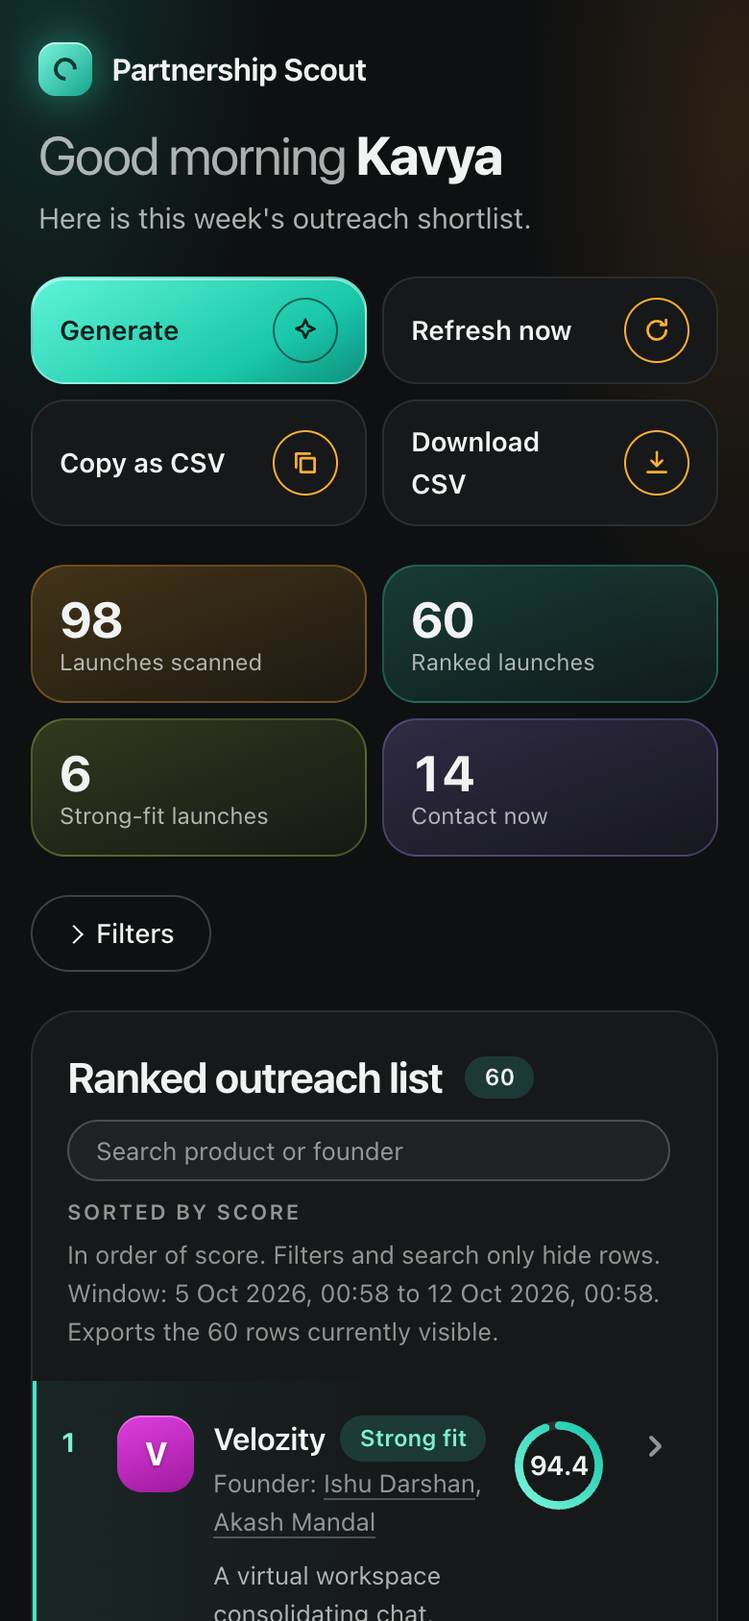
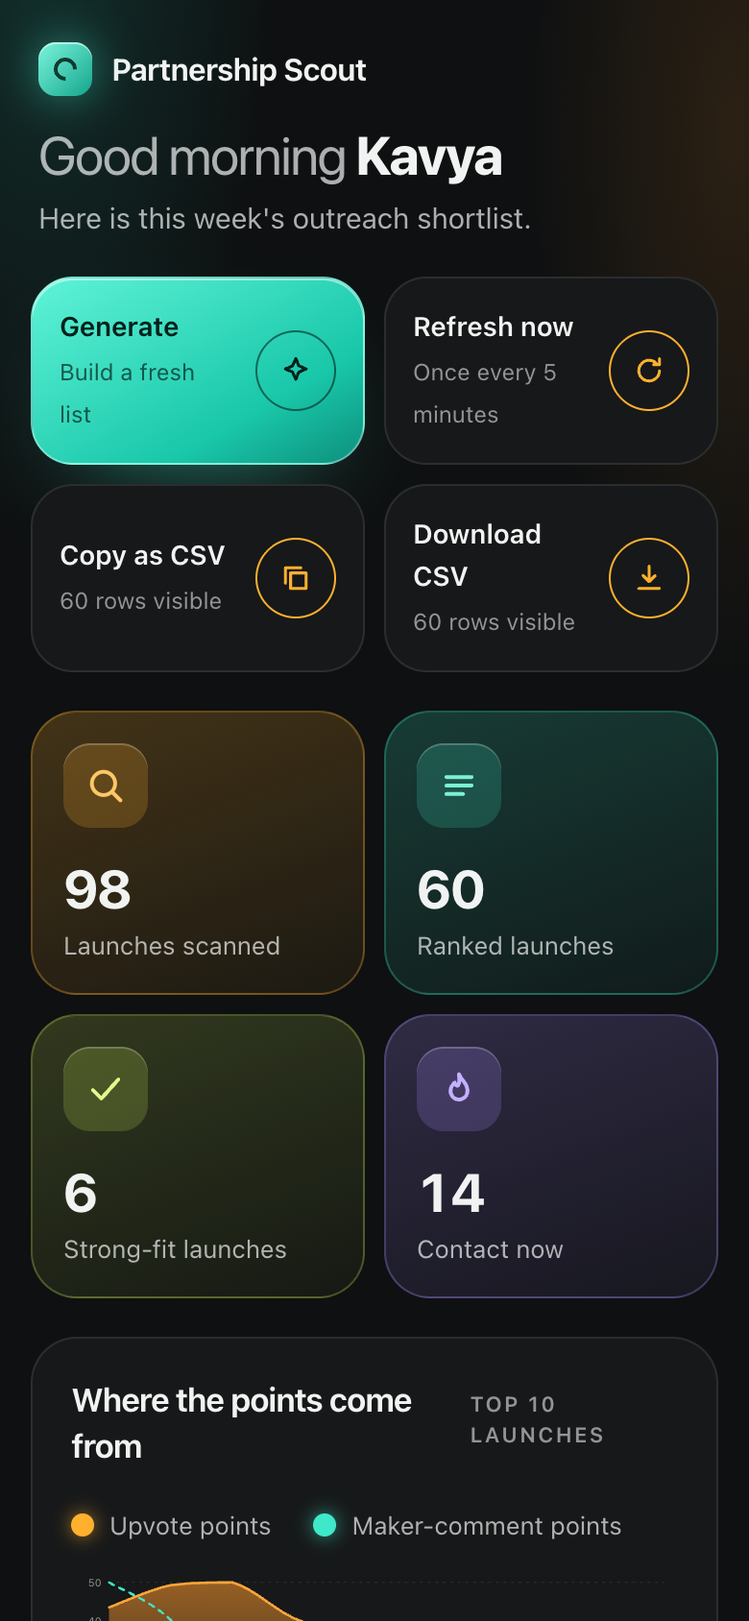
Restore charts-above-list layout; restyle ranked rows as cards with stat tiles

diff --git a/app/page.tsx b/app/page.tsx
@@ -65,22 +65,6 @@ function Tile({ name }: { name: string }) {
   return <span className="tile" aria-hidden="true" style={{ "--h": hues[h % hues.length] } as React.CSSProperties}>{letter}</span>;
 }
 
-/** Score ring: the arc is the score out of 100. */
-function Ring({ value, provisional, animate }: { value: number; provisional: boolean; animate: boolean }) {
-  const r = 24;
-  const c = 2 * Math.PI * r;
-  const pct = Math.max(0, Math.min(100, value));
-  return (
-    <div className={`ring${provisional ? " prov" : ""}`}>
-      <svg viewBox="0 0 60 60" aria-hidden="true">
-        <circle className="trk" cx="30" cy="30" r={r} />
-        <circle className={`prg${animate ? " go" : ""}`} cx="30" cy="30" r={r} strokeDasharray={`${(c * pct) / 100} ${c}`} transform="rotate(-90 30 30)" />
-      </svg>
-      <span className="score"><Score value={value} animate={animate} /></span>
-    </div>
-  );
-}
-
 /** Search by product name, one-liner or visible founder names (case-insensitive). Only hides rows. */
 function matchesQuery(r: ScoredLaunch, query: string): boolean {
   const q = query.trim().toLowerCase();
@@ -213,14 +197,14 @@ function Row({ r, rank, showNew, aiShown, index, onCopied, contacted, onContacte
             {unverified && <span className="pill p-unverified">Unverified quote</span>}
           </>
         ) : <span className="noangle">No angle for this launch</span>}
-        <p className="meta-line">
-          <span>{r.votesHidden ? <b>votes hidden</b> : <><b>{r.votesCount}</b> upvotes</>}</span>
-          <span>{r.makerComments === null ? <>maker comments <b title="Maker comments not counted">not counted</b></> : <><b>{r.makerComments}</b> maker comments</>}{r.makerCommentsStale && <em className="stale" title="Saved copy older than 6 hours; it will be refreshed on a later run"> (CACHED)</em>}</span>
-          <span><b>{r.daysSinceLaunch}</b> days since launch</span>
-        </p>
       </div>
       <div className="c-score">
-        {r.votesHidden ? <div className="hidden">votes hidden</div> : <Ring value={r.score} provisional={r.provisional} animate={index !== undefined && index < 10} />}
+        <div className={`mstats${r.provisional ? " prov" : ""}`}>
+          <div className="ms ms-score"><b>{r.votesHidden ? "–" : <Score value={r.score} animate={index !== undefined && index < 10} />}</b><span>{r.provisional ? "Score · provisional" : "Score"}</span></div>
+          <div className="ms"><b>{r.votesHidden ? "hidden" : r.votesCount}</b><span>Upvotes</span></div>
+          <div className="ms" title={r.makerCommentsStale ? "Saved copy older than 6 hours; it will be refreshed on a later run" : undefined}><b>{r.makerComments === null ? "–" : r.makerComments}</b><span>{r.makerComments === null ? "Maker comments · not counted" : r.makerCommentsStale ? "Maker comments · cached" : "Maker comments"}</span></div>
+          <div className="ms"><b>{r.daysSinceLaunch}</b><span>Days since launch</span></div>
+        </div>
       </div>
       <button className="c-toggle" aria-expanded={open} aria-controls={detailId} aria-label={`${open ? "Hide" : "Show"} details for ${r.name}`} onClick={() => setOpen(!open)}>
         <svg viewBox="0 0 16 16" aria-hidden="true"><path d="M6 3.5 10.5 8 6 12.5" /></svg>
@@ -405,7 +389,6 @@ export default function Page() {
   const [hideContacted, setHideContacted] = useState(false);
   const [query, setQuery] = useState("");
   const [recency, setRecency] = useState<"any" | "hot" | "week" | "closing">("any"); // filter by how recently a launch happened (only hides rows)
-  const [insightsOpen, setInsightsOpen] = useState(false);
   useEffect(() => {
     try {
       const v = JSON.parse(localStorage.getItem(CONTACTED_KEY) ?? "{}");
@@ -586,7 +569,6 @@ export default function Page() {
       Hide contacted{contactedCount ? ` (${contactedCount})` : ""}
     </label>
   );
-  const activeFilters = cats.length + (fitOnly ? 1 : 0) + (hideContacted ? 1 : 0) + (recency !== "any" ? 1 : 0) + (query.trim() ? 1 : 0);
   const recencyPicker = (
     <div className="recency" role="group" aria-label="Launched">
       <p className="micro nav-h">Launched</p>
@@ -675,9 +657,8 @@ export default function Page() {
             {data && (
               <nav aria-label="Sections and filters">
                 <p className="micro nav-h">Overview</p>
-                <a className="nav on" href="#overview">Overview</a>
+                <a className="nav on" href="#overview">Dashboard</a>
                 <a className="nav" href="#list">Ranked list <span className="n">{data.ranked.length}</span></a>
-                <a className="nav" href="#insights" onClick={() => setInsightsOpen(true)}>Insights</a>
                 {data.tooEarly.length > 0 && <a className="nav" href="#early">Too early <span className="n">{data.tooEarly.length}</span></a>}
                 {data.moreLaunches.length > 0 && <a className="nav" href="#more" onClick={() => setMoreOpen(true)}>More launches <span className="n">{data.moreLaunches.length}</span></a>}
                 <p className="micro nav-h">Categories</p>
@@ -727,58 +708,7 @@ export default function Page() {
                   <div className="kpi k-purple"><span className="ico ico-purple" aria-hidden="true"><svg viewBox="0 0 20 20"><path d="M10 3c1 3 4 4 4 8a4 4 0 0 1-8 0c0-2 1-3 2-4 .3 1 1 1.500 1.500 1.500C10.500 7 10 5 10 3z" /></svg></span><div className="kn">{hotRows.length}</div><div className="kl">Contact now</div></div>
                 </section>
 
-                <details className="m-filters mfilters">
-                  <summary>Filters{activeFilters ? ` (${activeFilters} on)` : ""}</summary>
-                  <div className="mf-body">
-                  <div className="seg" role="group" aria-label="Categories, pick one or more">
-                    <button className={`chip ${allCats ? "on" : ""}`} aria-pressed={allCats} onClick={() => setCats([])}>All <span className="n">{data.ranked.length}</span></button>
-                    {availableCats.map((c) => (
-                      <button key={c.id} className={`chip ${cats.includes(c.id) ? "on" : ""}`} aria-pressed={cats.includes(c.id)} onClick={() => toggleCat(c.id)}>{c.label} <span className="n">{catCount(c.id)}</span></button>
-                    ))}
-                  </div>
-                  {fitSwitch}
-                  {contactedSwitch}
-                  {recencyPicker}
-                  <details className="extras-box"><summary>Add optional categories{extras.length ? ` (${extras.length} on)` : ""}</summary>{extraPicker}</details>
-                  {notice && <p className="notice" role="status">{notice}</p>}
-                  </div>
-                </details>
-
-                <section className="panel flat" id="list">
-                  <div className="listhead">
-                    <h2>Ranked outreach list <span className="count">{ranked.length}</span></h2>
-                    <div className="right">
-                      <input type="search" className="search" placeholder="Search product or founder" aria-label="Search the list by product or founder" value={query} onChange={(e) => setQuery(e.target.value)} />
-                      <span className="micro">Sorted by score</span>
-                    </div>
-                  </div>
-                  <p className="hint">In order of score. Filters and search only hide rows. Window: {fmtTime(data.window.from)} to {fmtTime(data.window.to)}. Exports the {rowsLabel(exportCount)} currently visible.</p>
-                  {ranked.length === 0 && <div className="empty">No launches match. Widen the filters{data.counted.of === 0 ? `, or no launches were found between ${fmtTime(data.window.from)} and ${fmtTime(data.window.to)}` : ""}.</div>}
-                  {ranked.length > 0 && (
-                    <div className="table">
-                      <div className="thead" aria-hidden="true"><span>#</span><span>Product</span><span>Suggested outreach angle</span><span>Score</span><span /></div>
-                      {ranked.map((r, i) => <Row key={r.id} r={r} rank={data.ranked.indexOf(r) + 1 || i + 1} showNew={isNew(r)} aiShown index={i} onCopied={flash} contacted={Boolean(contacted[r.id])} onContacted={() => toggleContacted(r.id)} />)}
-                    </div>
-                  )}
-                </section>
-
-                {data.tooEarly.length > 0 && (
-                  <section className="panel flat" id="early">
-                    <div className="listhead"><h2>Too early to rank <span className="count">{tooEarly.length}</span></h2></div>
-                    <p className="hint">Launched today; Product Hunt is still hiding the votes. They have no score yet and are not ranked.</p>
-                    <div className="table">{tooEarly.map((r) => <Row key={r.id} r={r} showNew={isNew(r)} aiShown={r.ai.angle !== ""} onCopied={flash} contacted={Boolean(contacted[r.id])} onContacted={() => toggleContacted(r.id)} />)}</div>
-                  </section>
-                )}
-
-                {data.moreLaunches.length > 0 && (
-                  <details className="panel flat more" id="more" open={moreOpen} onToggle={(e) => setMoreOpen(e.currentTarget.open)}>
-                    <summary>More launches ({more.length}), in score order, without an angle</summary>
-                    <div className="table">{more.map((r) => <Row key={r.id} r={r} rank={data.ranked.length + data.moreLaunches.indexOf(r) + 1} showNew={isNew(r)} aiShown={false} onCopied={flash} contacted={Boolean(contacted[r.id])} onContacted={() => toggleContacted(r.id)} />)}</div>
-                  </details>
-                )}
-                <details className="panel flat insights" id="insights" open={insightsOpen} onToggle={(e) => setInsightsOpen(e.currentTarget.open)}>
-                  <summary>Insights: where the points come from, who to contact first, category mix</summary>
-                  <section className="bento" aria-label="Insights">
+                  <section className="bento" id="insights" aria-label="Insights">
                   <div className="card flat c-chart">
                     <div className="card-h"><h3>Where the points come from</h3><span className="micro">Top {Math.min(10, data.ranked.length)} launches</span></div>
                     <AreaChart rows={data.ranked.slice(0, 10)} />
@@ -826,7 +756,54 @@ export default function Page() {
                     </div>
                   )}
                 </section>
-                </details>
+
+                <div className="m-filters">
+                  <div className="seg" role="group" aria-label="Categories, pick one or more">
+                    <button className={`chip ${allCats ? "on" : ""}`} aria-pressed={allCats} onClick={() => setCats([])}>All <span className="n">{data.ranked.length}</span></button>
+                    {availableCats.map((c) => (
+                      <button key={c.id} className={`chip ${cats.includes(c.id) ? "on" : ""}`} aria-pressed={cats.includes(c.id)} onClick={() => toggleCat(c.id)}>{c.label} <span className="n">{catCount(c.id)}</span></button>
+                    ))}
+                  </div>
+                  {fitSwitch}
+                  {contactedSwitch}
+                  {recencyPicker}
+                  <details className="extras-box"><summary>Add optional categories{extras.length ? ` (${extras.length} on)` : ""}</summary>{extraPicker}</details>
+                  {notice && <p className="notice" role="status">{notice}</p>}
+                </div>
+
+                <section className="panel flat" id="list">
+                  <div className="listhead">
+                    <h2>Ranked outreach list <span className="count">{ranked.length}</span></h2>
+                    <div className="right">
+                      <input type="search" className="search" placeholder="Search product or founder" aria-label="Search the list by product or founder" value={query} onChange={(e) => setQuery(e.target.value)} />
+                      <span className="micro">Sorted by score</span>
+                    </div>
+                  </div>
+                  <p className="hint">In order of score. Filters and search only hide rows. Window: {fmtTime(data.window.from)} to {fmtTime(data.window.to)}. Exports the {rowsLabel(exportCount)} currently visible.</p>
+                  {ranked.length === 0 && <div className="empty">No launches match. Widen the filters{data.counted.of === 0 ? `, or no launches were found between ${fmtTime(data.window.from)} and ${fmtTime(data.window.to)}` : ""}.</div>}
+                  {ranked.length > 0 && (
+                    <div className="table">
+                      <div className="thead" aria-hidden="true"><span>#</span><span>Product</span><span>Suggested outreach angle</span><span>Score and activity</span><span /></div>
+                      {ranked.map((r, i) => <Row key={r.id} r={r} rank={data.ranked.indexOf(r) + 1 || i + 1} showNew={isNew(r)} aiShown index={i} onCopied={flash} contacted={Boolean(contacted[r.id])} onContacted={() => toggleContacted(r.id)} />)}
+                    </div>
+                  )}
+                </section>
+
+                {data.tooEarly.length > 0 && (
+                  <section className="panel flat" id="early">
+                    <div className="listhead"><h2>Too early to rank <span className="count">{tooEarly.length}</span></h2></div>
+                    <p className="hint">Launched today; Product Hunt is still hiding the votes. They have no score yet and are not ranked.</p>
+                    <div className="table">{tooEarly.map((r) => <Row key={r.id} r={r} showNew={isNew(r)} aiShown={r.ai.angle !== ""} onCopied={flash} contacted={Boolean(contacted[r.id])} onContacted={() => toggleContacted(r.id)} />)}</div>
+                  </section>
+                )}
+
+                {data.moreLaunches.length > 0 && (
+                  <details className="panel flat more" id="more" open={moreOpen} onToggle={(e) => setMoreOpen(e.currentTarget.open)}>
+                    <summary>More launches ({more.length}), in score order, without an angle</summary>
+                    <div className="table">{more.map((r) => <Row key={r.id} r={r} rank={data.ranked.length + data.moreLaunches.indexOf(r) + 1} showNew={isNew(r)} aiShown={false} onCopied={flash} contacted={Boolean(contacted[r.id])} onContacted={() => toggleContacted(r.id)} />)}</div>
+                  </details>
+                )}
+
               </>
             )}
 

diff --git a/app/globals.css b/app/globals.css
@@ -273,15 +273,14 @@ button.small { height: 30px; padding: 0 12px; font-size: 13px; }
 .listhead .right { display: flex; flex-wrap: wrap; align-items: center; gap: 8px 16px; }
 h2 { font-size: 22px; line-height: 28px; display: flex; align-items: center; gap: 12px; }
 h2 .count { font-size: 12px; font-weight: 600; letter-spacing: 0; color: var(--t1); background: rgba(62, 232, 200, 0.16); border-radius: 999px; padding: 0 10px; line-height: 22px; font-variant-numeric: tabular-nums; }
-.table { margin-top: 16px; }
-.thead, .lrow { display: grid; grid-template-columns: 32px minmax(0, 1fr) minmax(0, 1.25fr) 64px 28px; column-gap: 32px; align-items: start; grid-template-areas: "rank prod angle score tog" ". det det det det"; }
+.table { margin-top: 16px; padding: 0 16px 16px; }
+.thead, .lrow { display: grid; grid-template-columns: 32px minmax(0, 1fr) minmax(0, 1.1fr) 224px 28px; column-gap: 28px; align-items: start; grid-template-areas: "rank prod angle score tog" ". det det det det"; }
 .thead { position: sticky; top: 0; z-index: 4; padding: 11px 28px; grid-template-areas: none; font-size: 11px; line-height: 16px; text-transform: uppercase; letter-spacing: 0.1em; color: var(--t3); font-weight: 600; background: rgba(22, 24, 25, 0.9); -webkit-backdrop-filter: blur(16px); backdrop-filter: blur(16px); border-top: 1px solid var(--line); border-bottom: 1px solid var(--line); }
-.lrow { padding: 28px 28px; position: relative; border-top: 1px solid var(--line); transition: background 200ms var(--spring); }
-.thead + .lrow { border-top: 0; }
-.lrow:hover { background: rgba(255, 255, 255, 0.025); }
+.lrow { padding: 24px 22px; position: relative; margin-top: 12px; border-radius: 24px; background: rgba(255, 255, 255, 0.03); border: 1px solid var(--line); transition: background 200ms var(--spring), border-color 200ms var(--spring); }
+.lrow:hover { background: rgba(255, 255, 255, 0.05); border-color: var(--line-hi); }
 .lrow.enter { animation: rise 420ms var(--spring) both; animation-delay: calc(var(--i) * 25ms); }
 @keyframes rise { from { opacity: 0; transform: translateY(8px); } }
-.lrow.top1 { background: linear-gradient(90deg, rgba(62, 232, 200, 0.07), transparent 55%); box-shadow: inset 2px 0 0 var(--mint); }
+.lrow.top1 { background: linear-gradient(90deg, rgba(62, 232, 200, 0.07), transparent 55%); border-color: rgba(62, 232, 200, 0.35); }
 .c-rank { grid-area: rank; padding-top: 3px; }
 .rank { color: var(--t3); font-size: 14px; font-variant-numeric: tabular-nums; font-weight: 500; }
 .lrow.top .rank { color: var(--t1); font-weight: 700; }
@@ -298,21 +297,16 @@ h2 .count { font-size: 12px; font-weight: 600; letter-spacing: 0; color: var(--t
 .desc { color: var(--t2); font-size: 13px; line-height: 20px; margin: 8px 0 0; display: -webkit-box; -webkit-line-clamp: 4; -webkit-box-orient: vertical; overflow: hidden; }
 .c-angle { grid-area: angle; min-width: 0; }
 .angle-prev { margin: 0; color: rgba(241, 243, 242, 0.94); font-size: 14px; line-height: 23px; }
-.meta-line { display: flex; flex-wrap: wrap; gap: 2px 18px; margin: 12px 0 0; font-size: 12.5px; line-height: 18px; color: var(--t3); }
-.meta-line b { color: var(--t2); font-weight: 600; font-variant-numeric: tabular-nums; }
-.meta-line .stale { color: var(--amber-t); font-style: normal; }
 .c-angle .pill { margin-top: 8px; }
 .noangle { color: var(--t3); font-size: 13px; }
-.c-score { grid-area: score; display: flex; justify-content: flex-end; }
-.ring { position: relative; width: 64px; height: 64px; flex: none; }
-.ring svg { width: 100%; height: 100%; display: block; overflow: visible; }
-.ring .trk { fill: none; stroke: rgba(255, 255, 255, 0.1); stroke-width: 5; }
-.ring .prg { fill: none; stroke: url(#ringgrad); stroke-width: 5; stroke-linecap: round; }
-.ring .prg.go { animation: ringin 900ms var(--spring) both; }
-@keyframes ringin { from { stroke-dasharray: 0 160; } }
-.ring.prov .trk { stroke-dasharray: 2 4; stroke: rgba(255, 255, 255, 0.32); stroke-width: 4; }
-.ring.prov .prg { opacity: 0.55; }
-.ring .score { position: absolute; inset: 0; display: flex; align-items: center; justify-content: center; font-size: 17px; font-weight: 650; letter-spacing: -0.03em; font-variant-numeric: tabular-nums; }
+.c-score { grid-area: score; }
+.mstats { display: grid; grid-template-columns: 1fr 1fr; gap: 8px; }
+.ms { background: rgba(255, 255, 255, 0.05); border-radius: 16px; padding: 10px 12px; display: flex; flex-direction: column; justify-content: center; min-width: 0; }
+.ms b { font-size: 22px; line-height: 26px; font-weight: 750; letter-spacing: -0.03em; font-variant-numeric: tabular-nums; color: var(--t1); overflow-wrap: anywhere; }
+.ms span { font-size: 10.5px; line-height: 14px; text-transform: uppercase; letter-spacing: 0.07em; color: var(--t3); font-weight: 600; }
+.ms-score { background: linear-gradient(160deg, rgba(62, 232, 200, 0.22), rgba(62, 232, 200, 0.07)); box-shadow: inset 0 0 0 1px rgba(62, 232, 200, 0.28); }
+.ms-score b, .ms-score span { color: var(--mint-t); }
+.mstats.prov .ms-score { box-shadow: inset 0 0 0 1px rgba(62, 232, 200, 0.28); border: 1px dashed rgba(255, 255, 255, 0.3); }
 .c-score .hidden { color: var(--t2); font-size: 12px; line-height: 16px; text-align: right; }
 .c-toggle { grid-area: tog; width: 28px; height: 28px; padding: 0; display: inline-flex; align-items: center; justify-content: center; background: transparent; border-color: transparent; color: var(--t3); margin-top: 2px; }
 .c-toggle svg { width: 16px; height: 16px; stroke: currentColor; fill: none; stroke-width: 2; stroke-linecap: round; stroke-linejoin: round; transition: transform 300ms var(--spring); }
@@ -339,8 +333,8 @@ h2 .count { font-size: 12px; font-weight: 600; letter-spacing: 0; color: var(--t
 .how dd { margin: 0; font-variant-numeric: tabular-nums; overflow-wrap: anywhere; }
 .how b { color: var(--t1); }
 .how-note { color: var(--t3); font-size: 12px; line-height: 18px; margin: 8px 0 0; }
-.lrow.competitor .name, .lrow.competitor .angle-prev, .lrow.competitor .angle-full, .lrow.competitor .meta-line b, .lrow.competitor .score { color: var(--t2); }
-.lrow.competitor .ring .prg { stroke: rgba(255, 255, 255, 0.45); filter: none; }
+.lrow.competitor .name, .lrow.competitor .angle-prev, .lrow.competitor .angle-full, .lrow.competitor .ms b { color: var(--t2); }
+.lrow.competitor .ms-score { background: rgba(255, 255, 255, 0.06); box-shadow: none; } .lrow.competitor .ms-score b, .lrow.competitor .ms-score span { color: var(--t2); }
 .lrow.competitor .tile { filter: saturate(0.3) brightness(0.9); }
 
 /* ---- founder and site links ---- */
@@ -351,13 +345,6 @@ h2 .count { font-size: 12px; font-weight: 600; letter-spacing: 0; color: var(--t
 .findc .d-actions { margin-top: 0; }
 .btn-link:hover { background: var(--fill-2); border-color: rgba(255, 255, 255, 0.34); }
 
-/* ---- insights panel (collapsed by default so the list comes first) ---- */
-.insights { padding: 0; }
-.insights > summary { list-style: none; cursor: pointer; display: flex; align-items: center; gap: 10px; padding: 20px 28px; font-size: 16px; font-weight: 600; color: var(--t1); border-radius: 24px; }
-.insights > summary::-webkit-details-marker { display: none; }
-.insights > summary::before { content: ""; width: 7px; height: 7px; border-right: 2px solid currentColor; border-bottom: 2px solid currentColor; transform: rotate(-45deg); transition: transform 300ms var(--spring); flex: none; }
-.insights[open] > summary::before { transform: rotate(45deg); }
-.insights .bento { padding: 0 20px 20px; }
 .seg-wrap { display: flex; flex-wrap: wrap; border-radius: 16px; }
 .recency { margin-top: 4px; }
 .m-filters .recency { width: 100%; }
@@ -435,6 +422,10 @@ button.small.accent:hover:not(:disabled) { background: rgba(255, 176, 46, 0.12);
 
 /* ---- tablet and below ---- */
 @media (max-width: 1199px) {
+  .thead { display: none; }
+  .lrow { grid-template-columns: 24px minmax(0, 1fr) 28px; column-gap: 12px; row-gap: 14px; padding: 20px 16px; grid-template-areas: "rank prod tog" ". angle angle" ". score score" ". det det"; }
+  .mstats { grid-template-columns: repeat(4, minmax(0, 1fr)); }
+  .table { padding: 0 12px 12px; }
   .qas, .kpis { grid-template-columns: repeat(2, minmax(0, 1fr)); }
   .c-chart, .c-hot, .c-scores, .c-cats { grid-column: 1 / -1; }
   .c-top { grid-template-columns: minmax(0, 1fr); }
@@ -443,16 +434,9 @@ button.small.accent:hover:not(:disabled) { background: rgba(255, 176, 46, 0.12);
   .shell { grid-template-columns: minmax(0, 1fr); padding: 16px 16px 56px; }
   .side { display: none; }
   .m-brand { display: flex; margin-bottom: 14px; }
-  .m-filters { display: block; }
-  .mf-body { display: flex; flex-direction: column; align-items: flex-start; gap: 12px; padding-top: 12px; }
-  .mfilters > summary { list-style: none; cursor: pointer; display: inline-flex; align-items: center; gap: 8px; height: 40px; padding: 0 18px; border-radius: 999px; border: 1px solid var(--line-hi); font-size: 14px; font-weight: 500; }
-  .mfilters > summary::-webkit-details-marker { display: none; }
-  .mfilters > summary::before { content: ""; width: 6px; height: 6px; border-right: 1.5px solid currentColor; border-bottom: 1.5px solid currentColor; transform: rotate(-45deg); transition: transform 200ms var(--spring); }
-  .mfilters[open] > summary::before { transform: rotate(45deg); }
+  .m-filters { display: flex; flex-direction: column; align-items: flex-start; gap: 12px; }
   .panel { padding-top: 20px; }
   .panel > .listhead, .panel > .hint, .panel > .empty { margin-left: 18px; margin-right: 18px; }
-  .thead { display: none; }
-  .lrow { grid-template-columns: 24px minmax(0, 1fr) 64px 28px; column-gap: 12px; row-gap: 14px; padding: 20px 18px; grid-template-areas: "rank prod score tog" ". angle angle angle" ". det det det"; }
   .c-detail { grid-template-columns: minmax(0, 1fr); margin-top: 4px; }
   .more > summary { padding: 18px; }
   .landing { padding: 8px 16px 72px; }
@@ -468,17 +452,13 @@ button.small.accent:hover:not(:disabled) { background: rgba(255, 176, 46, 0.12);
   button { height: 44px; }
   button.small { height: 38px; }
   .chip { height: 38px; }
-  .qas { gap: 8px; }
-  .qa { padding: 10px 14px; min-height: 56px; font-size: 14px; border-radius: 18px; }
-  .qa small { display: none; }
-  .qa-ico { width: 34px; height: 34px; }
-  .qa-ico svg { width: 16px; height: 16px; }
-  .kpis { gap: 8px; }
-  .kpi { padding: 12px 14px; border-radius: 18px; gap: 0; }
-  .kpi .ico { display: none; }
-  .kn { font-size: 26px; line-height: 30px; }
-  .kl { font-size: 12px; line-height: 16px; }
-  .dash-head h1 { margin-top: 0; }
+  .qas { gap: 10px; }
+  .qa { padding: 14px; min-height: 80px; font-size: 14px; }
+  .qa-ico { width: 42px; height: 42px; }
+  .qa-ico svg { width: 18px; height: 18px; }
+  .kpis { gap: 10px; }
+  .kpi { padding: 16px; }
+  .kn { font-size: 28px; line-height: 32px; }
   .card { padding: 20px; }
   .pbars { height: 180px; gap: 6px; }
   .hero h1 { font-size: 38px; line-height: 40px; }
@@ -487,9 +467,8 @@ button.small.accent:hover:not(:disabled) { background: rgba(255, 176, 46, 0.12);
   .cta-l { font-size: 13px; }
   .net-card { display: none; }
   .steps { grid-template-columns: 1fr; }
-  .lrow { grid-template-columns: 20px minmax(0, 1fr) 52px 32px; column-gap: 10px; padding: 18px 14px; }
-  .ring { width: 52px; height: 52px; }
-  .ring .score { font-size: 14px; }
+  .lrow { grid-template-columns: 20px minmax(0, 1fr) 32px; column-gap: 10px; padding: 18px 14px; }
+  .mstats { grid-template-columns: 1fr 1fr; }
   .tile { width: 40px; height: 40px; font-size: 17px; border-radius: 13px; }
   .c-prod { gap: 10px; }
   .desc { display: block; }

diff --git a/README.md b/README.md
@@ -45,7 +45,7 @@ Launches posted today often show 0 votes because Product Hunt hides them; those 
 
 ## Small extras on the page
 
-- **Made for Kavya's workflow:** the ranked list comes first and the charts sit in a collapsed "Insights" section; each row links to the founders' public Product Hunt profiles and to the product's own site (links from Product Hunt, https only; the tool never looks up emails). An expanded row also has "Find contact yourself": links that open a LinkedIn people search for each founder and a web search for the product, built in the browser from names already on screen. They look up nothing and store nothing, so Kavya finds any contact details herself; **Mark as contacted** on a row remembers it in her browser only (localStorage `ph-scout:contacted`, never sent anywhere) so she can hide what she has already handled. On phones the filters sit in a "Filters" disclosure so the list starts near the top.
+- **Made for Kavya's workflow:** each ranked row is a card with four stat tiles (score, upvotes, maker comments, days since launch), in the style of the "Start here" card; each row links to the founders' public Product Hunt profiles and to the product's own site (links from Product Hunt, https only; the tool never looks up emails). An expanded row also has "Find contact yourself": links that open a LinkedIn people search for each founder and a web search for the product, built in the browser from names already on screen. They look up nothing and store nothing, so Kavya finds any contact details herself; **Mark as contacted** on a row remembers it in her browser only (localStorage `ph-scout:contacted`, never sent anywhere) so she can hide what she has already handled.
 - **Copy as CSV / Download CSV** export exactly the rows currently visible (chips and the fit switch applied, in the order shown; "More launches" rows only while that section is open). It runs in the browser from data already on the page, and cells that start with `=`, `+`, `-` or `@` are prefixed with an apostrophe so spreadsheets do not run them as formulas.
 - Rows whose fit is "Likely competitor" are dimmed, not removed, and the order never changes.
 - **Dashboard overview** above the list: four KPI tiles (launches scanned, ranked, strong-fit, contact now), a chart of where the top 10 launches get their points (upvote points and maker-comment points, from each row's score breakdown), top-score bars, a category share donut, a maker-comment coverage gauge and a "Start here" card for the rank 1 launch. Every figure is computed in the browser from the response already returned, with no extra requests, and none of it changes a score or the order.
